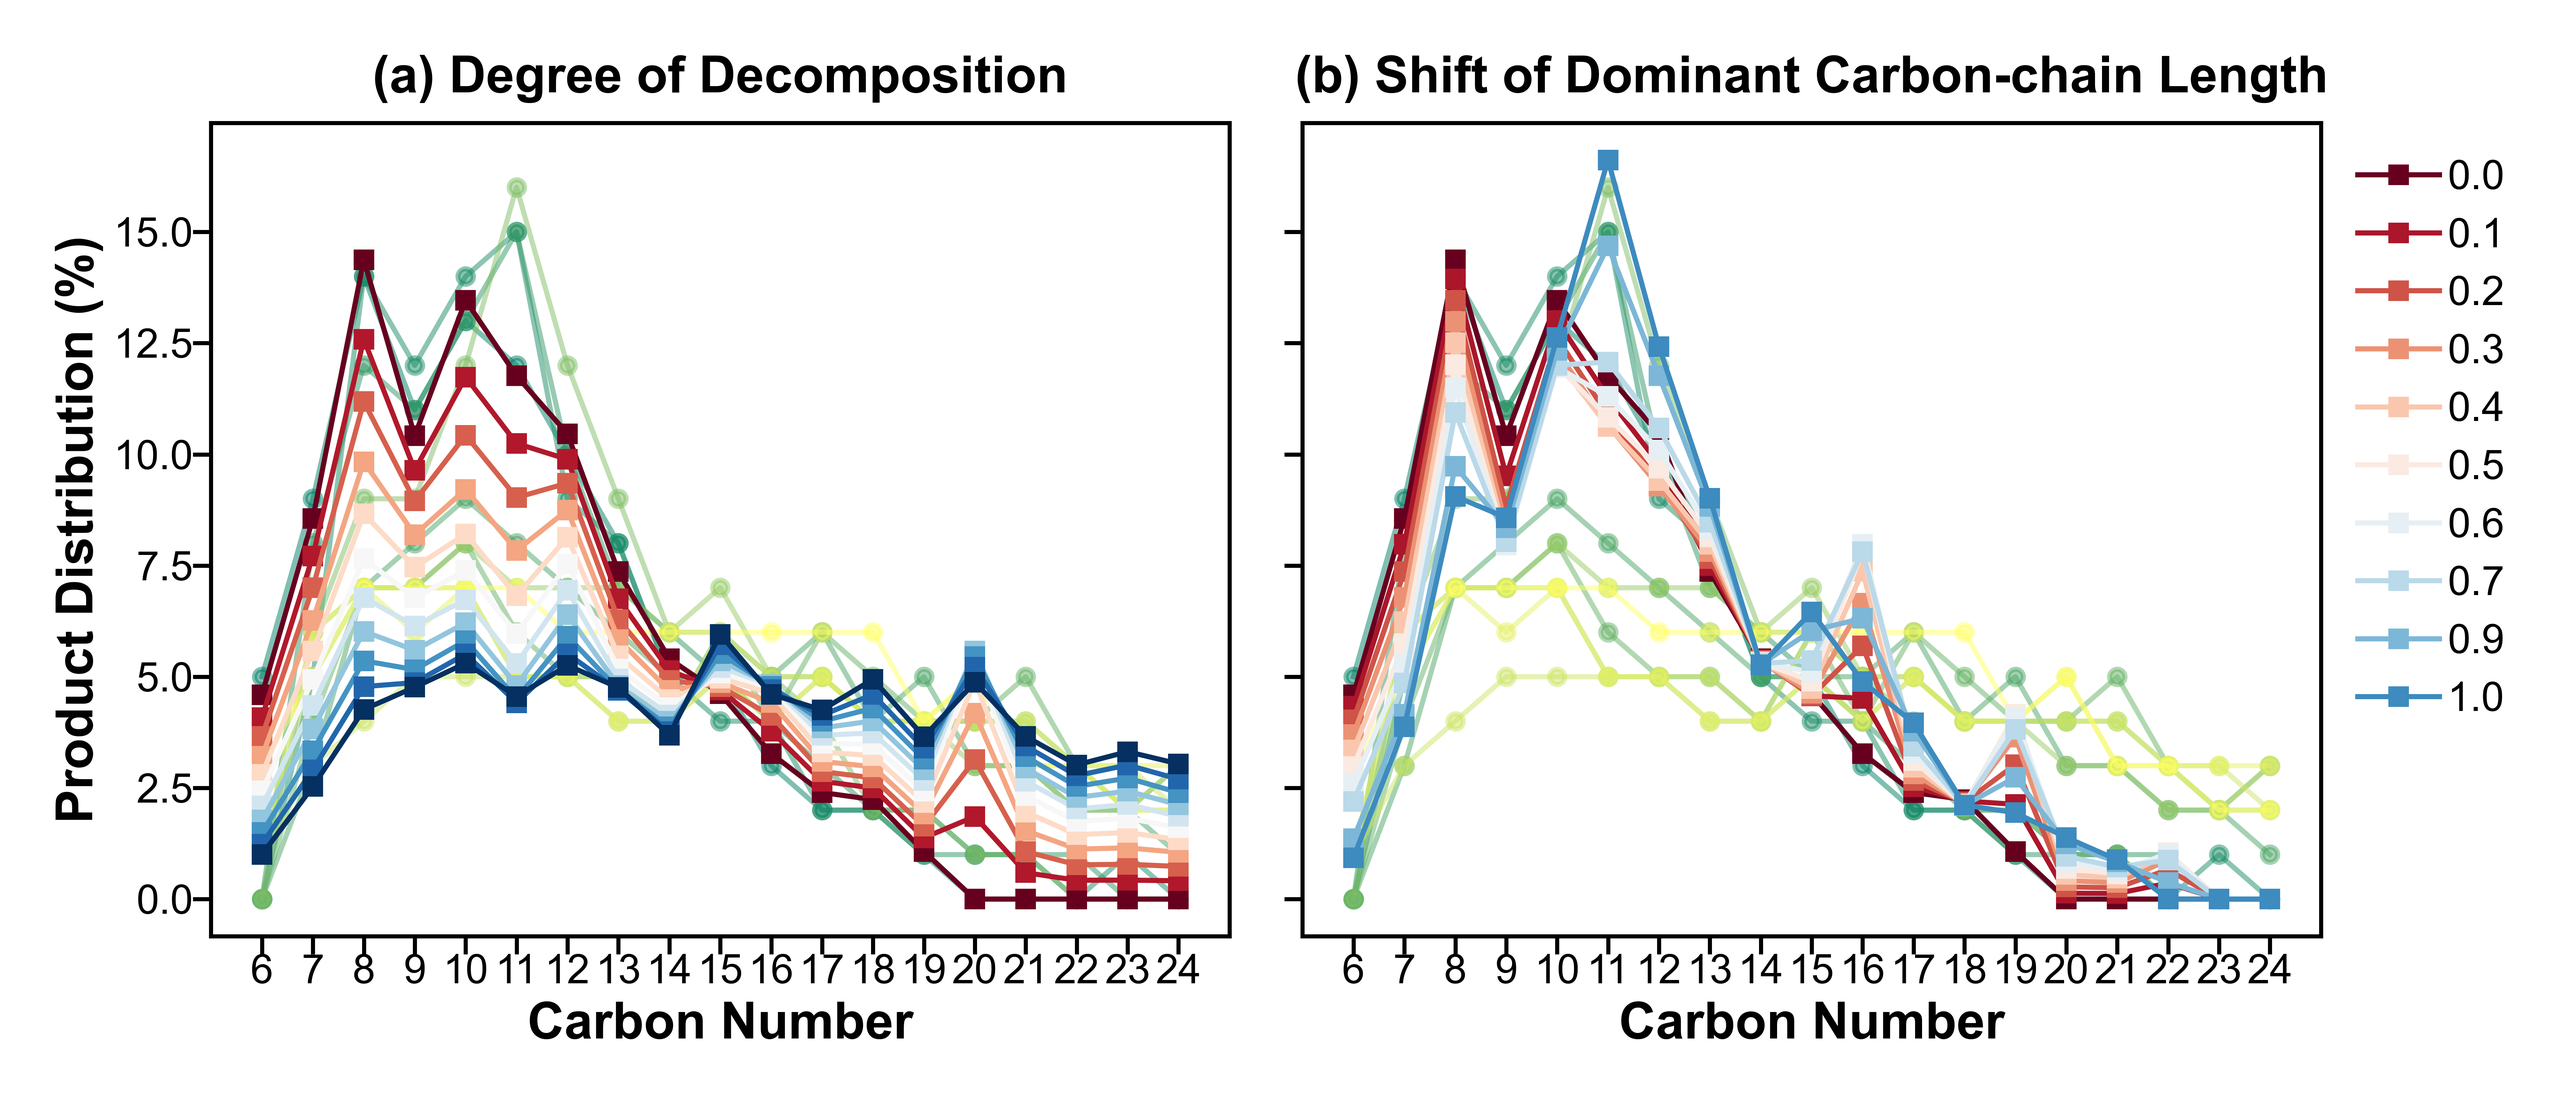
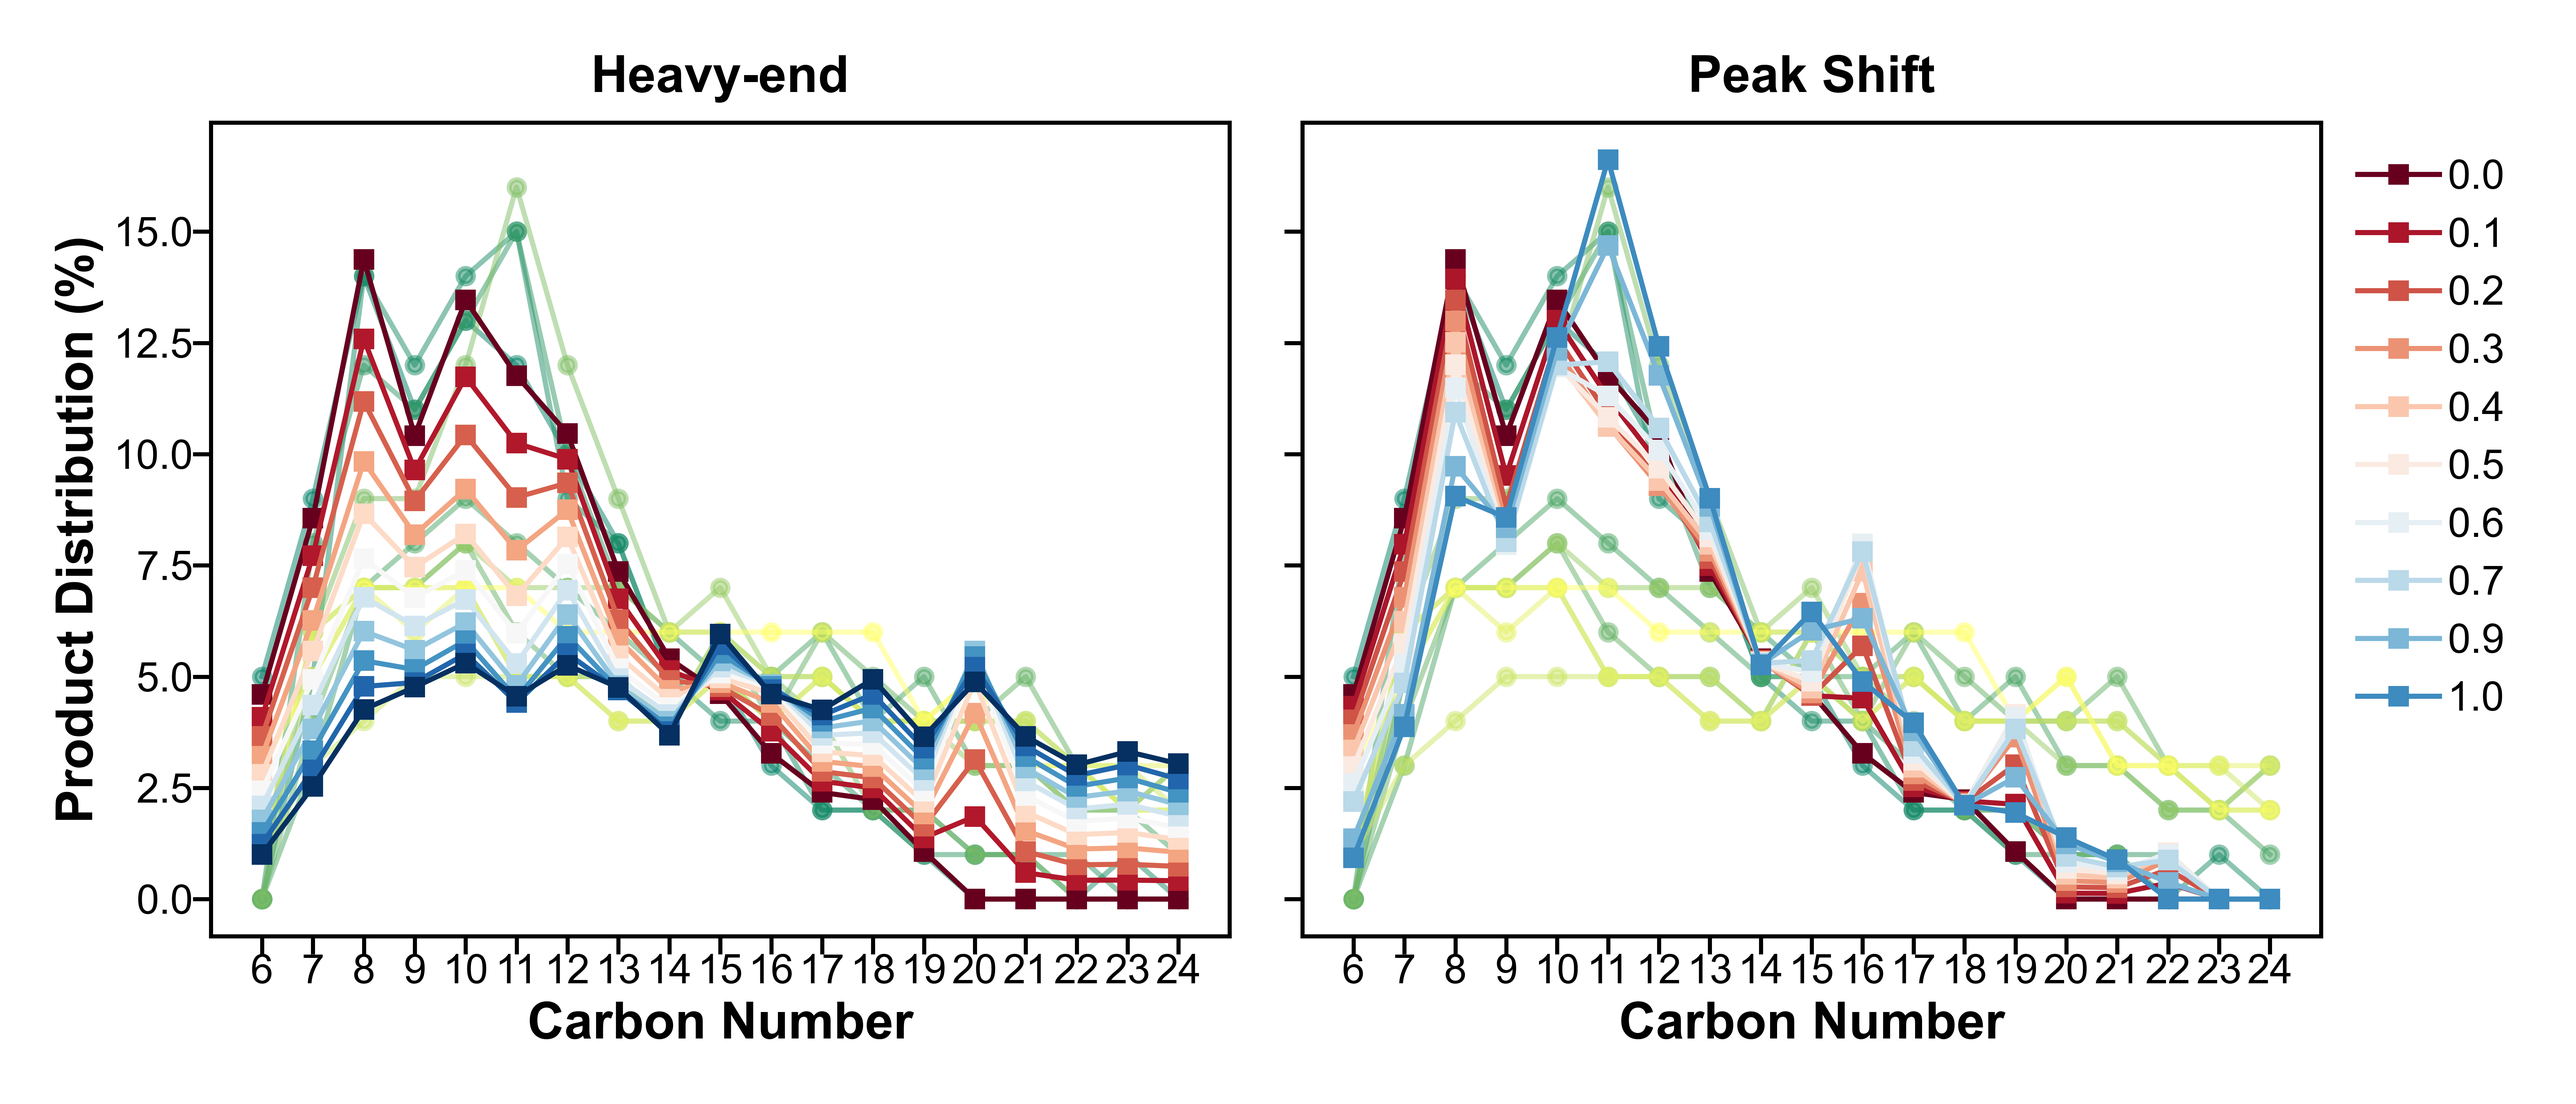
Plot TEA and LCA results

Changed region(s): [[0.4983, 0.031, 0.9031, 0.093], [0.1246, 0.031, 0.436, 0.093]]

diff --git a/plotting_TEA_LCA.py b/plotting_TEA_LCA.py
@@ -17,7 +17,7 @@ args = [
     {"name" : "param_0",
      "file_simulation" : r"D:\SAF_Nurul\Sensitivity_1210\results_param_0.csv",
      "file_res" : r"D:\SAF_Nurul\Sensitivity_1210\SAF_Sensitivity_Analysis_251203_param_0.xlsx",
-     "pretty_name": "Decomposition Degree"
+     "pretty_name": "Heavy-end"
 },
     {"name" : "param_1",
      "file_simulation" : r"D:\SAF_Nurul\Sensitivity_1210\results_param_1.csv",
@@ -99,10 +99,10 @@ plt.savefig(fig_name)
 plt.show()
 
 #%%
-file_simulation = r"D:\SAF_Nurul\Sensitivity_1210\converged_results_combined.csv"
-file_res = r"D:\SAF_Nurul\Sensitivity_1210\SAF_Sensitivity_Analysis_251204_converged.xlsx"
+file_simulation = r"D:\SAF_Nurul\Sensitivity_1210\results_random_final.csv"
+file_res = r"D:\SAF_Nurul\Sensitivity_1210\SAF_Sensitivity_Analysis_251204_converged_corrected.xlsx"
 
-df_sim = pd.read_csv(file_simulation)
+df_sim = pd.read_csv(file_simulation).set_index('case_num')
 df_raw_tea = pd.read_excel(file_res, sheet_name="TEA").transpose()
 df_raw_lca = pd.read_excel(file_res, sheet_name="LCA")
 
@@ -123,6 +123,66 @@ df_tea_multi.columns = new_columns
 msp = pd.DataFrame(df_tea_multi['MSP [$/kg]'][np.nan].iloc[2:].copy().tolist(),
                    index=df_tea_multi['Case Number'][np.nan].iloc[2:].copy().tolist())
 lca = pd.concat([df_lca['Alloc_SAF_5'], df_lca['case_num']], axis=1).set_index('case_num')
-valid_indices = [int(i) for i in lca.index.tolist() if 0 <= int(i) < len(df_sim)]
-sim_selected = df_sim.iloc[valid_indices].copy()
+valid_indices = [int(i) for i in lca.index.tolist()]
+sim_selected = df_sim.loc[valid_indices].copy()
 
+pretty_names = ['Heavy-end', 'Peak Shift']
+params = ['param_0', 'param_1']
+#%%
+fig_name = os.path.join(r"D:\SAF_Nurul\Sensitivity_1210", "random_line.png")
+
+fig, axs = plt.subplots(1, 2, sharey=True)
+axs2 = []
+for i, idx_param in enumerate(params):
+    ax = axs[i]
+    ax.plot(sim_selected[idx_param], msp, 'o', c='blue', markersize=5, linewidth=2, alpha=0.5)
+    # ax.tick_params(axis='y', labelcolor='blue', colors='blue')
+    # ax.spines['left'].set_color("blue")
+
+    ax2 = ax.twinx()
+    ax2.plot(sim_selected[idx_param], lca*1000, 'o', c='orange', markersize=5, linewidth=2, alpha=0.5)
+    ax2.tick_params(axis='y', labelcolor='orange', colors='orange')
+    ax2.spines['right'].set_color("orange")
+    ax2.set_ylim([11, 23])
+    axs2.append(ax2)
+
+    ax.set_xlabel(pretty_names[i])
+
+axs[0].set_ylabel('MSP [$/kg SAF]')
+axs2[0].tick_params(labelright=False)
+axs2[1].set_ylabel('GWP [g CO2e/MJ SAF]', color='orange')
+plt.tight_layout()
+plt.savefig(fig_name)
+plt.show()
+
+#%%
+from matplotlib import rcParams
+fs = 10
+dpi = 200
+config_figure = {'figure.figsize': (7, 3), 'figure.titlesize': fs,
+                 'font.size': fs, 'font.family': 'sans-serif', 'font.serif': ['computer modern roman'],
+                 'font.sans-serif': ['Arial'],  # Avenir LT Std, Helvetica Neue LT Pro, Helvetica LT Std, Helvetica Neue LT Pro
+                 'font.weight': '300', 'axes.titleweight': 'bold', 'axes.labelweight': 'bold',
+                 'axes.xmargin': 0, 'axes.titlesize': fs, 'axes.labelsize': fs, 'axes.labelpad': 2,
+                 'xtick.labelsize': fs-2, 'ytick.labelsize': fs-2, 'xtick.major.pad': 0, 'ytick.major.pad': 0,
+                 'legend.fontsize': fs-2, 'legend.title_fontsize': fs, 'legend.frameon': False,
+                 'legend.labelspacing': 0.5, 'legend.columnspacing': 0.5, 'legend.handletextpad': 0.2,
+                 'lines.linewidth': 1, 'hatch.linewidth': 0.5, 'hatch.color': 'w',
+                 'figure.subplot.left': 0.15, 'figure.subplot.right': 0.93,
+                 'figure.subplot.top': 0.95, 'figure.subplot.bottom': 0.15,
+                 'figure.dpi': dpi, 'savefig.dpi': dpi*5, 'savefig.transparent': False,  # change here True if you want transparent background
+                 'text.usetex': False, 'mathtext.default': 'regular',
+                 'text.latex.preamble': r'\usepackage{amsmath,amssymb,bm,physics,lmodern,cmbright}'}
+rcParams.update(config_figure)
+
+fig, axs = plt.subplots(1, 2, sharey=True, sharex=True)
+output_names = ['MSP [$/kg]', 'GWP [g CO2e/MJ SAF']
+for ax, z_val, z_name in zip(axs, [msp.iloc[:,0], lca.iloc[:,0]*1000], output_names):
+    sc = ax.scatter(sim_selected[params[0]], sim_selected[params[1]], c=z_val, cmap='viridis', s=50, alpha=0.8)
+    cbar = fig.colorbar(sc, ax=ax, label=z_name)
+    ax.set_xlabel(pretty_names[0])
+    ax.set_ylabel(pretty_names[1])
+# plt.title('Heatmap of Z values at (X, Y) coordinates')
+# plt.grid(True, linestyle='--', alpha=0.5)
+plt.savefig(os.path.join(r"D:\SAF_Nurul\Sensitivity_1210", "random_heat.png"))
+plt.show()

diff --git a/sensitivity_retrieve_params.py b/sensitivity_retrieve_params.py
@@ -1,0 +1,111 @@
+import pandas as pd
+import os
+import re
+
+# Define a function to extract the number from the column name
+def extract_tag(name):
+    # Regex pattern: look for an underscore followed by digits at the end of the string
+    match = re.search(r'_(\d+)$', name)
+    if match:
+        return int(match.group(1))
+    return None # Return None if pattern doesn't match
+
+read_folder = r"D:\saf_hdo\aspen\sa_20251203"
+read_files = os.listdir(os.path.join(read_folder, "converged"))
+read_index = [extract_tag(s[:-4]) for s in read_files]
+read_df = pd.read_csv(os.path.join(read_folder, 'converged_results_combined.csv'))
+read_df['case_num'] = read_index
+read_df = read_df.set_index('case_num').sort_index()
+
+df_sa = pd.read_csv(os.path.join(read_folder, "params_retrieved.csv"))
+df_sa_converged = df_sa.iloc[read_df.index.tolist()]
+
+read_df['Interp1'] = df_sa_converged['Interp1']
+read_df['Interp2'] = df_sa_converged['Interp2']
+read_df.rename({'Interp1': 'param_0', 'Interp2': 'param_1'}, axis=1, inplace=True)
+read_df.to_csv(os.path.join(read_folder, "results_random_final.csv"))
+#%%
+
+
+#%%
+import pandas as pd
+import matplotlib.pyplot as plt
+import datetime
+from aspen_utils import AspenSim
+
+simA = AspenSim(r"D:\saf_hdo\aspen\Basecase_SAF_251128\251127_pyrolysis_oil_CC_case_a_3.bkp")
+simI = AspenSim(r"D:\saf_hdo\aspen\Basecase_SAF_251128\251127_pyrolysis_oil_CC_case_i.bkp", case_target="i")
+# simK = AspenSim(r"D:\saf_hdo\aspen\251023_pyrolysis_oil_CC_case_k_rxn_enabled.bkp", case_target="k")
+simF = AspenSim(r"D:\saf_hdo\aspen\Basecase_SAF_251128\251127_pyrolysis_oil_CC_case_f.bkp", case_target="f")
+
+sims = [simA, simI, simF]
+original_coefs = []
+for s in sims:
+    original_coefs.append(s.get_rxn_coefficients())
+
+sim_main = simA
+def convert_coef(simX):
+    coef_X = simX.get_rxn_coefficients()
+    coef_X_for_main = [[0 for _ in rxn_indices] for rxn_indices in sim_main.rxn_indices]
+    for rxtor, rxn_indices in enumerate(sim_main.rxn_indices):
+        for idx, rxn_no in enumerate(rxn_indices):
+            if rxn_no in simX.rxn_indices[rxtor]:
+                coef_X_for_main[rxtor][idx] = coef_X[rxtor][simX.rxn_indices[rxtor].index(rxn_no)]
+    return coef_X_for_main
+
+names = [s.case_target for s in sims]
+original_coefficients = [convert_coef(s) for s in sims]
+
+#%
+def rxn_coef_interp(_x, _y):
+    rxn_coef = []
+    for a_rxtor, i_rxtor, f_rxtor in zip(*original_coefficients):
+        rxn_coef_rxtor = []
+        for a, i, f in zip(a_rxtor, i_rxtor, f_rxtor):
+            rxn_coef_rxtor.append(a * (1-_x-_y) + i * _x + f * _y)
+        rxn_coef.append(rxn_coef_rxtor)
+    return rxn_coef
+
+def res2df(_interp_point, _coef, _res, _stat):
+    row_interp = {}
+    for i, p in enumerate(_interp_point):
+        row_interp[f"Interp{i + 1}"] = p
+    row_coef = {}
+    for i, c_rxtor in enumerate(_coef):
+        for idx, c in zip(sim_main.rxn_indices[i], c_rxtor):
+            row_coef[f"R{i + 1}_rxn{idx}"] = c
+    row_res = {}
+    for i, r in _res.items():
+        row_res[f"C{i}"] = r
+    row = {**row_interp, **row_coef, **row_res, 'state': _stat}
+    return row
+
+#%%
+import numpy as np
+
+np.random.seed(42)
+
+N = 200
+noise = False
+
+print(f"=== Random {noise} Sensitivity Analysis ===")
+n_ref = len(sims)
+sa_points = np.random.rand(N, n_ref-1)
+for idx, p in enumerate(sa_points):
+    if sum(p) > 1:
+        sa_points[idx] = sa_points[idx] / sum(sa_points[idx])
+
+sa_coefficients = []
+sa_results = []
+sa_all_rows = []
+for idx, (x, y) in enumerate(sa_points):
+    print(f"Random SA #{idx}/{N}-----")
+    coef_sa = rxn_coef_interp(x, y)
+    if noise:
+        coef_sa += np.random.normal(0, 0.2, len(coef_sa))
+    coef_sa = [[min(max(c, 0), 1) for c in cc] for cc in coef_sa]
+    sa_coefficients.append(coef_sa)
+    sa_all_rows.append(res2df((x, y), coef_sa, {}, None))
+
+df_sa = pd.DataFrame(sa_all_rows)
+df_sa.to_csv(os.path.join(read_folder, "params_retrieved.csv"))

diff --git a/plotting.py b/plotting.py
@@ -69,7 +69,7 @@ ax.set_xticks(x_ticks)
 
 ax.set_xlabel("Carbon Number")
 ax.set_ylabel("Product Distribution (%)")
-ax.set_title("(a) Degree of Decomposition")
+ax.set_title("Heavy-end")
 #%
 
 dir_all = r"D:\saf_hdo\aspen\grid_20251203_105302_param_1"
@@ -104,7 +104,7 @@ x_ticks = np.arange(6, product_carbon_range[-1], 1)
 ax.set_xticks(x_ticks)
 
 ax.set_xlabel("Carbon Number")
-ax.set_title("(b) Shift of Dominant Carbon-chain Length")
+ax.set_title("Peak Shift")
 plt.legend(loc='upper left', bbox_to_anchor=(1, 1))
 plt.tight_layout()
 plt.savefig(r'D:\saf_hdo\figures\sensitivity_param_combined.png')
